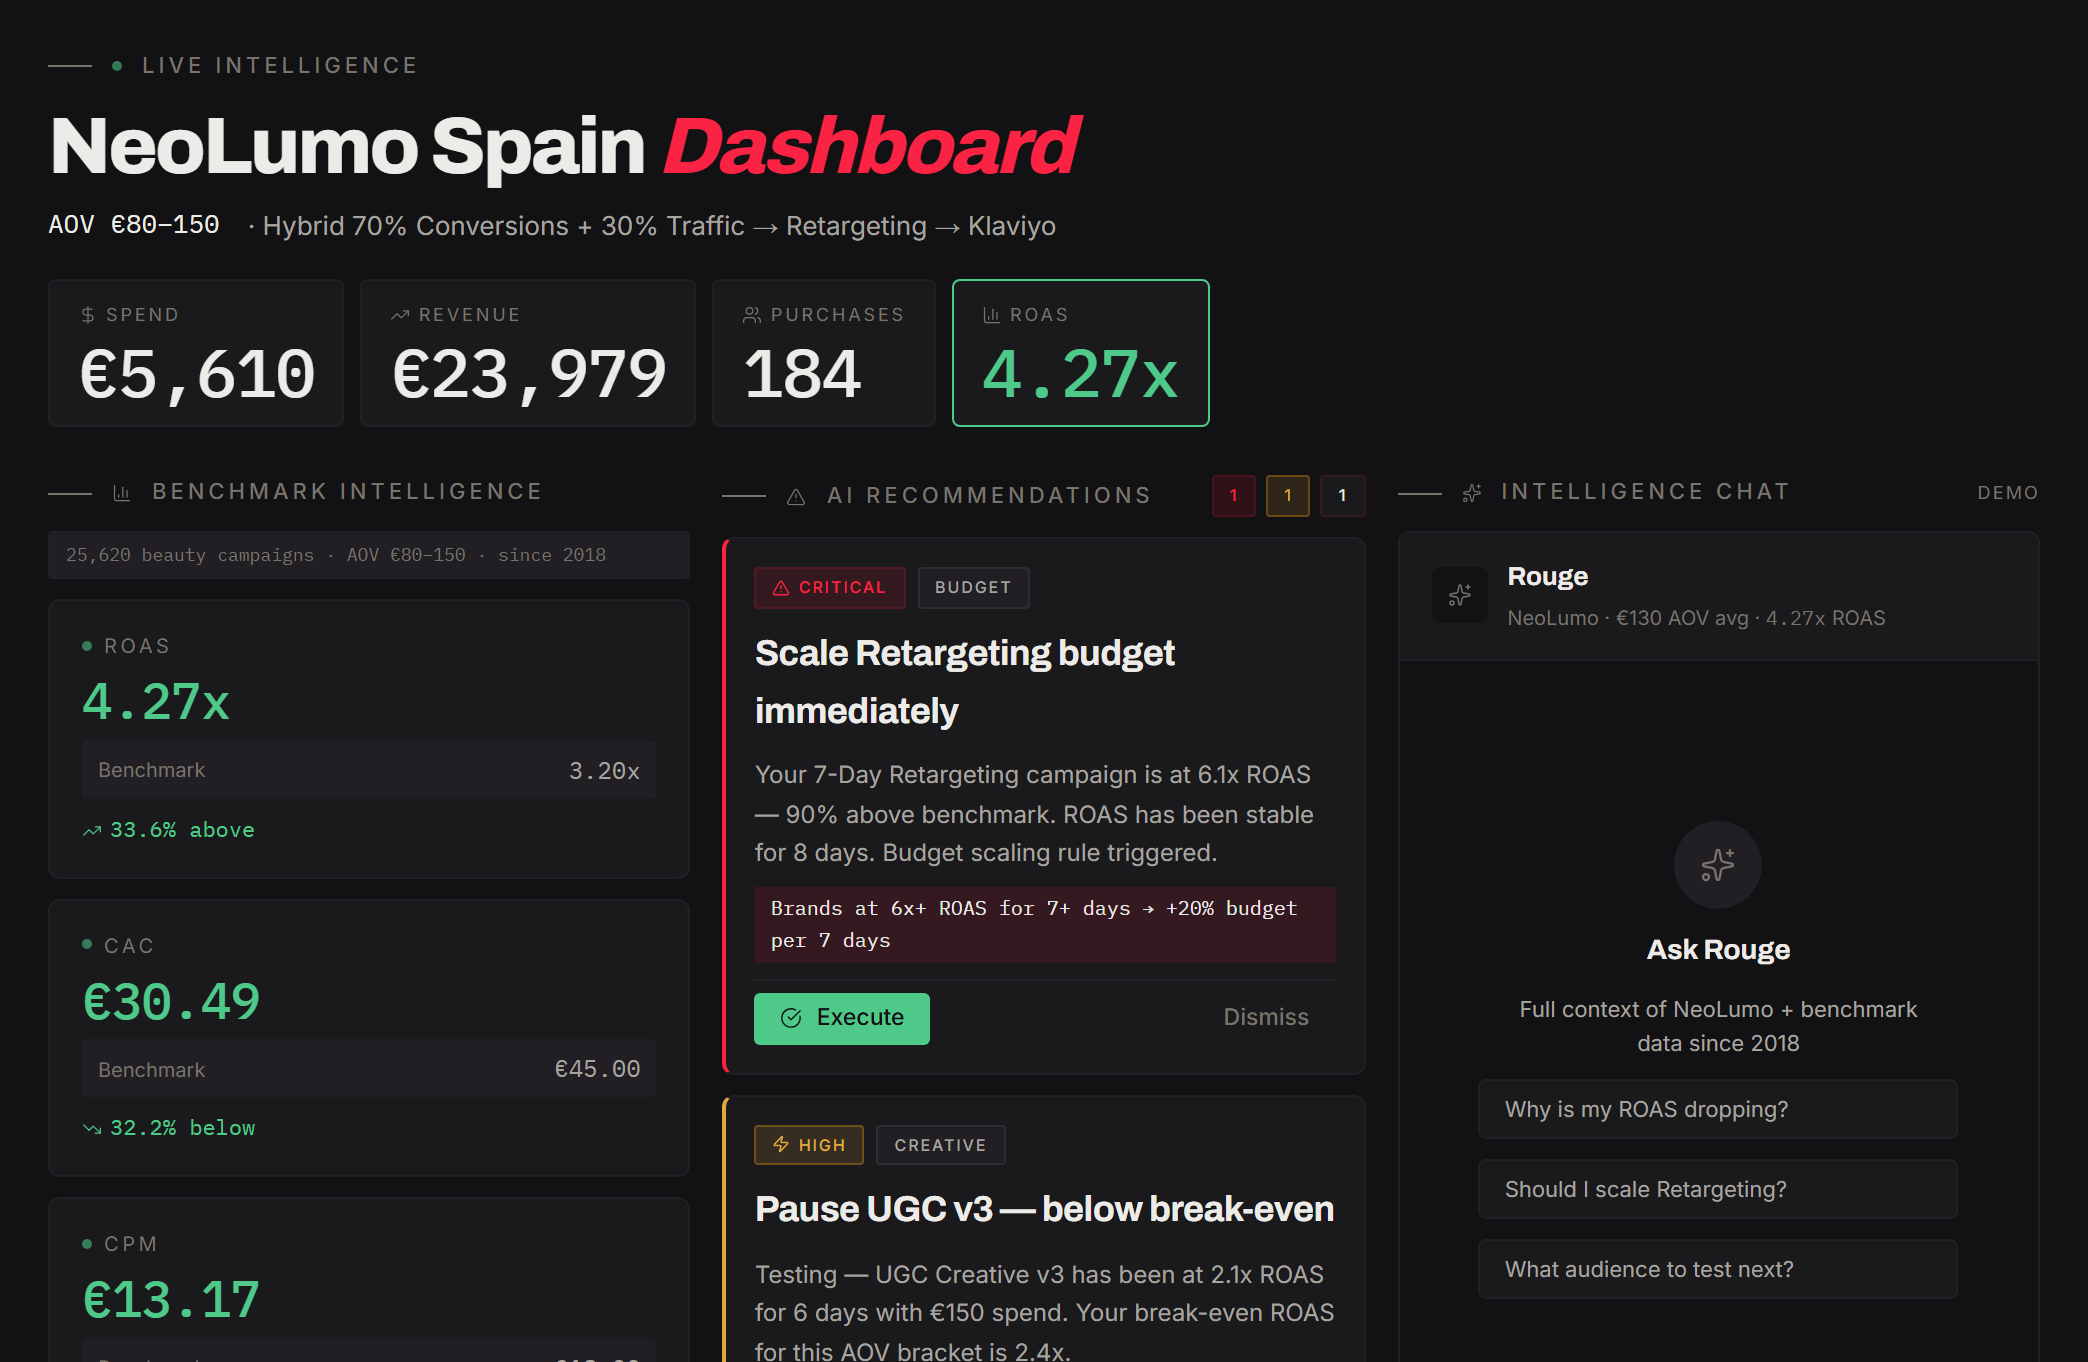
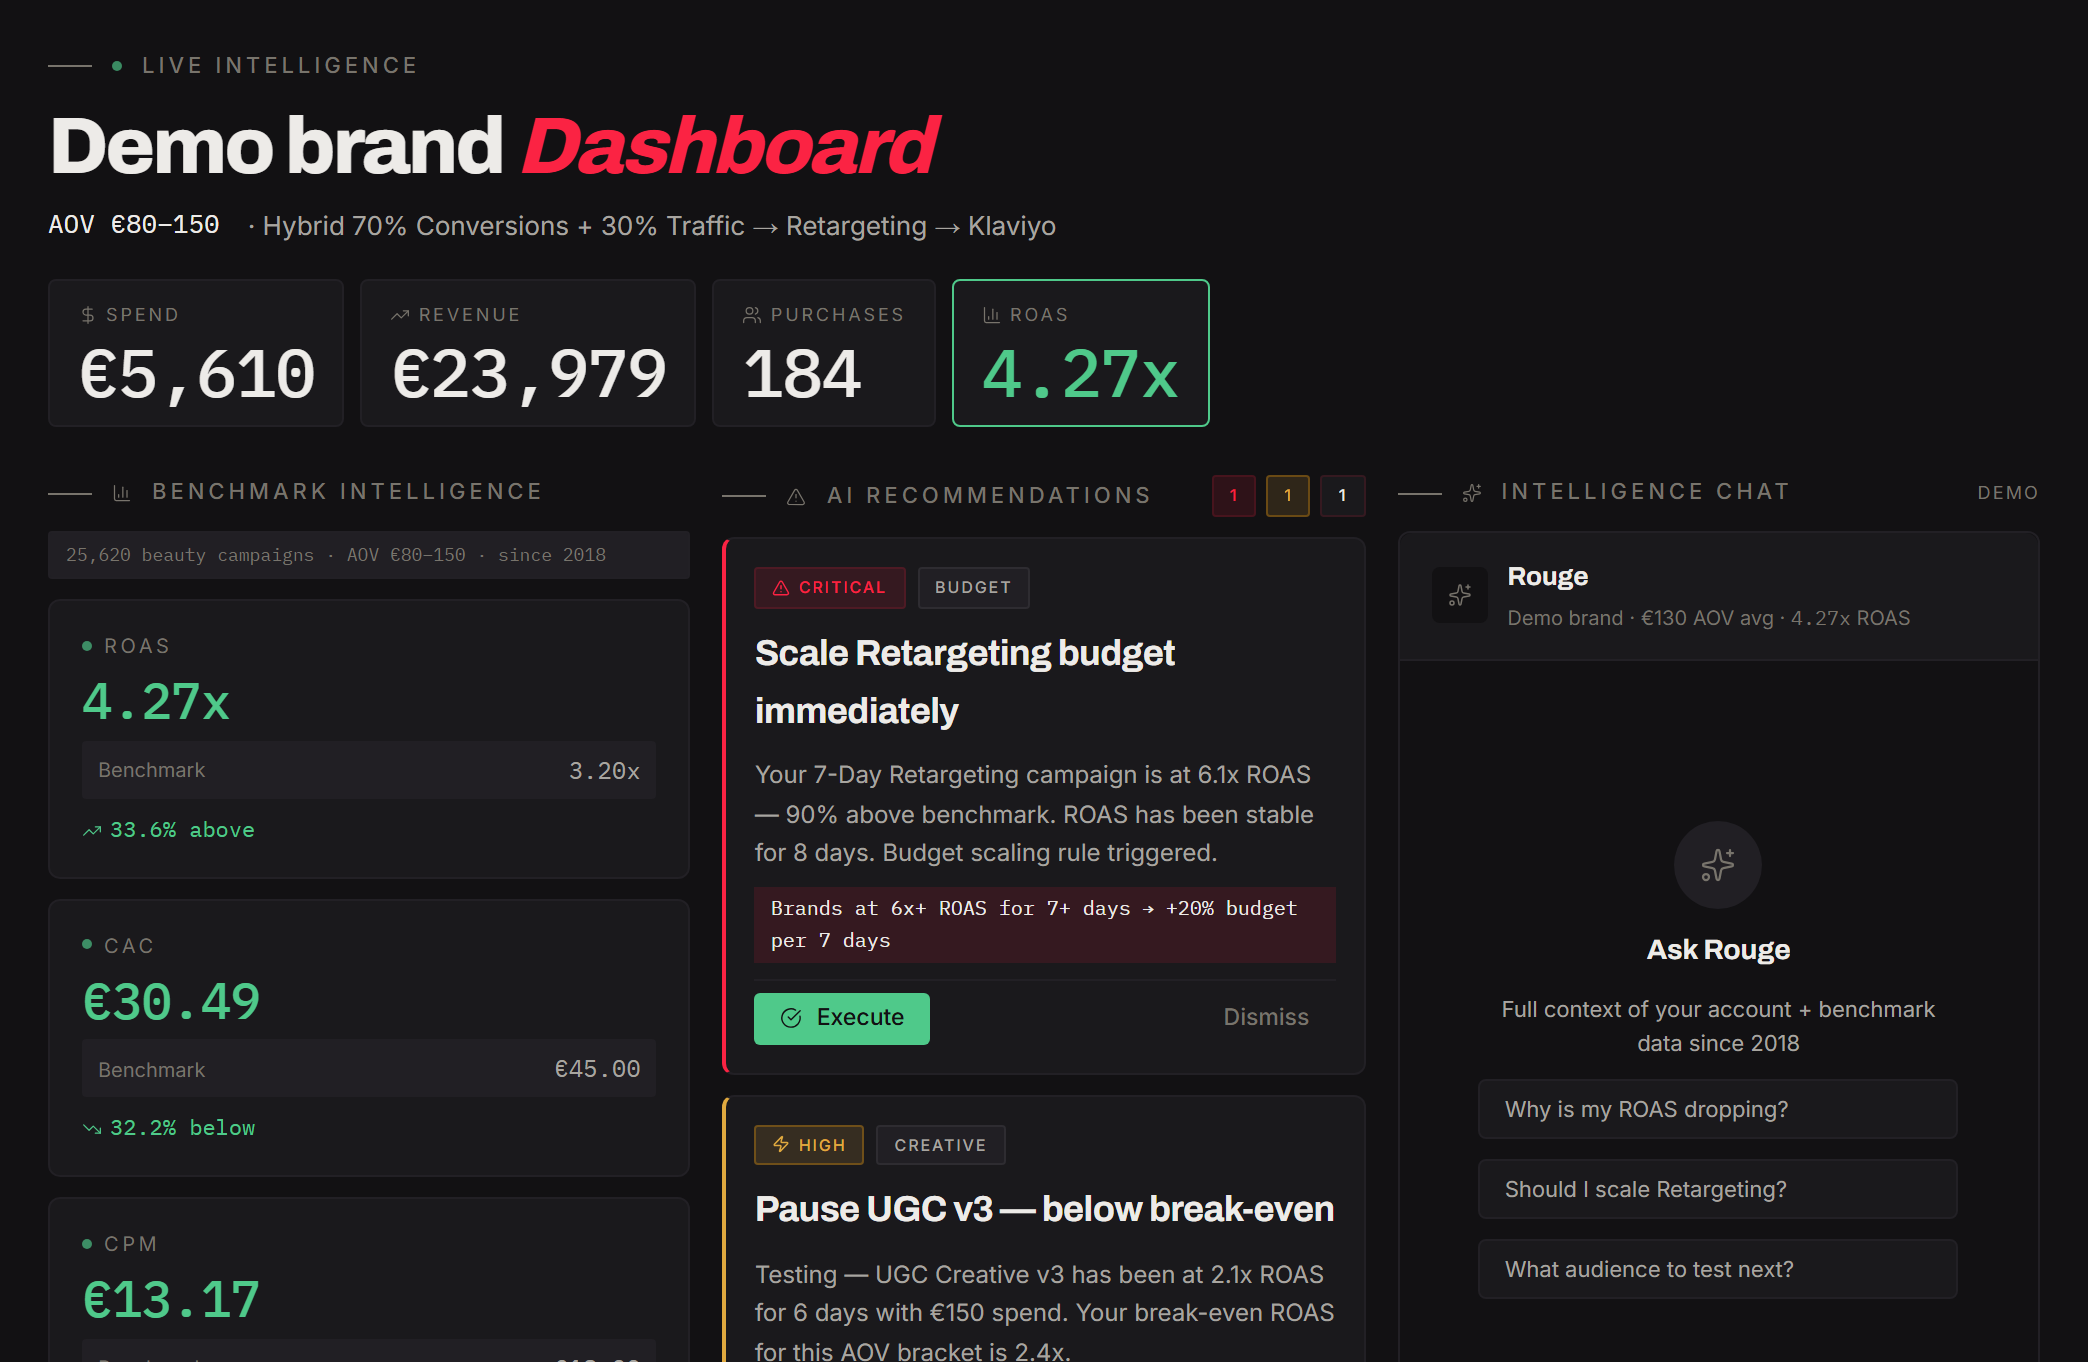
Demo: no real brand name anywhere
/demo showed "NeoLumo Spain" as the brand, and the landing's dashboard
screenshot carried it. NeoLumo is one of the confidential benchmark
sources the chat prompt forbids naming. The demo brand is now "Demo
brand"; chat copy says "your account". Shots re-captured.

Spec gate 6 greps src, public, index.html and scripts for the
confidential brand list. Known issue #12 records the rule.

Changed region(s): [[0.0311, 0.0617, 0.5292, 0.1542], [0.716, 0.7401, 0.9339, 0.7709], [0.716, 0.4317, 0.9028, 0.4626]]

diff --git a/src/pages/DemoDashboard.tsx b/src/pages/DemoDashboard.tsx
@@ -9,7 +9,7 @@ import { AreaChart, Area, XAxis, YAxis, Tooltip, ResponsiveContainer } from 'rec
 
 /* ── Mock data ── */
 const MOCK_BRAND = {
-  name: 'NeoLumo Spain',
+  name: 'Demo brand',   // never a real brand: several are confidential benchmark sources
   category: 'Skincare',
   markets: ['ES', 'IT'],
   stage: 'scaling',
@@ -82,7 +82,7 @@ const ROAS_TREND = Array.from({ length: 14 }, (_, i) => ({
 }));
 
 const DEMO_CHAT_RESPONSES: Record<string, string> = {
-  default: `Based on your NeoLumo campaign data vs the Beauty & Cosmetics benchmark (data since 2018):
+  default: `Based on your campaign data vs the Beauty & Cosmetics benchmark (data since 2018):
 
 **Your account is performing ABOVE average** for the ${MOCK_BRAND.bracket.replace('AOV ', '')} AOV bracket.
 
@@ -179,7 +179,7 @@ const DemoDashboard: React.FC = () => {
           <div style={{ display: 'flex', alignItems: 'center', gap: 10 }}>
             <Sparkles size={12} strokeWidth={1.5} style={{ color: 'var(--text-3)' }} />
             <span style={{ fontFamily: 'var(--font-ui)', fontSize: 11, fontWeight: 300, color: 'var(--text)', letterSpacing: '0.04em' }}>
-              Demo Mode — NeoLumo Spain · Mock data · No auth required
+              Demo Mode — {MOCK_BRAND.name} · Mock data · No auth required
             </span>
           </div>
           <div style={{ display: 'flex', gap: 8, alignItems: 'center' }}>
@@ -352,7 +352,7 @@ const DemoDashboard: React.FC = () => {
                   <div>
                     <div style={{ fontFamily: 'var(--font-display)', fontSize: 13, fontWeight: 700, color: 'var(--text-primary)' }}>Rouge</div>
                     <div style={{ fontFamily: 'var(--font-sans)', fontSize: 10, fontWeight: 300, color: 'var(--text-muted)', marginTop: 1 }}>
-                      NeoLumo · €{Math.round(ACCOUNT.aov)} AOV avg · <span style={{ fontFamily: 'var(--font-mono)' }}>{ACCOUNT.roas.toFixed(2)}x</span> ROAS
+                      {MOCK_BRAND.name} · €{Math.round(ACCOUNT.aov)} AOV avg · <span style={{ fontFamily: 'var(--font-mono)' }}>{ACCOUNT.roas.toFixed(2)}x</span> ROAS
                     </div>
                   </div>
                 </div>
@@ -365,7 +365,7 @@ const DemoDashboard: React.FC = () => {
                         <Sparkles size={18} strokeWidth={1.5} />
                       </div>
                       <p style={{ fontFamily: 'var(--font-display)', fontSize: 14, fontWeight: 700, color: 'var(--text-primary)' }}>Ask Rouge</p>
-                      <p style={{ fontFamily: 'var(--font-sans)', fontSize: 11, fontWeight: 300, color: 'var(--text-secondary)', maxWidth: 220, lineHeight: 1.5 }}>Full context of NeoLumo + benchmark data since 2018</p>
+                      <p style={{ fontFamily: 'var(--font-sans)', fontSize: 11, fontWeight: 300, color: 'var(--text-secondary)', maxWidth: 220, lineHeight: 1.5 }}>Full context of your account + benchmark data since 2018</p>
                       {[
                         'Why is my ROAS dropping?',
                         'Should I scale Retargeting?',

diff --git a/src/lib/exportCsv.ts b/src/lib/exportCsv.ts
@@ -5,7 +5,7 @@
  * No dependencies — uses native browser APIs only.
  *
  * Usage:
- *   exportCampaignsCsv(campaigns, { dateLabel: 'Last 30 days', brandName: 'NeoLumo' })
+ *   exportCampaignsCsv(campaigns, { dateLabel: 'Last 30 days', brandName: 'Demo brand' })
  */
 
 import type { Campaign } from '../types';

diff --git a/Docs/known-issues.md b/Docs/known-issues.md
@@ -173,6 +173,9 @@
   example" לפני שהחומר מגיע למשקיעים. השלמת `/demo` משרתת את הלנדינג (שני הצילומים החסרים)
   ואת הדמו למשקיעים בעבודה אחת. זו משימת מוצר, לא משימת עיצוב.
 - **כלל:** דאטת דמו בלבד. **אף פעם לא חשבון של לקוח אמיתי** — זה כלל חוזי, לא סגנוני.
+- **כלל:** **אף פעם לא שם של מותג אמיתי** — לא בדמו, לא בצילומי מסך, לא בקופי. הדמו הציג "NeoLumo Spain",
+  שהוא אחד ממקורות הבנצ'מרק החסויים (רשימה ב-`claude-chat/index.ts:397-403`). הוחלף ב-"Demo brand"
+  ב-`landing/v3`; gate 6 בספק בודק את זה. **הגרסה שבפרודקשן (`e724836`) עדיין מציגה את השם עד המיזוג.**
 - **מתי:** אחרי שהלנדינג עולה, לפני שהמצגת יוצאת.
 - **Owner branch:** מוצר — השלמת דמו.
 

diff --git a/Docs/landing-spec-v3.md b/Docs/landing-spec-v3.md
@@ -303,6 +303,11 @@ rg -n 'box-shadow|drop-shadow|filter:' src/styles/marketing.css && echo FAIL || 
 # 5 · No ceiling language anywhere in src/ until known-issue #8 ships.
 #     Measures the concept, not a list of sentences (same lesson as the hex gate).
 rg -n -i 'ceiling' src && echo FAIL || echo OK
+
+# 6 · No real brand name on any visible surface or screenshot source. The demo brand is "Demo brand".
+#     These are confidential benchmark sources (supabase/functions/claude-chat/index.ts); extend the
+#     list whenever that list grows.
+rg -n -i 'neolumo|oyb|obey your body|neobeauty|renovo' src public index.html scripts && echo FAIL || echo OK
 ```
 
 Then by eye, at 390px, 768px and 1440px:
